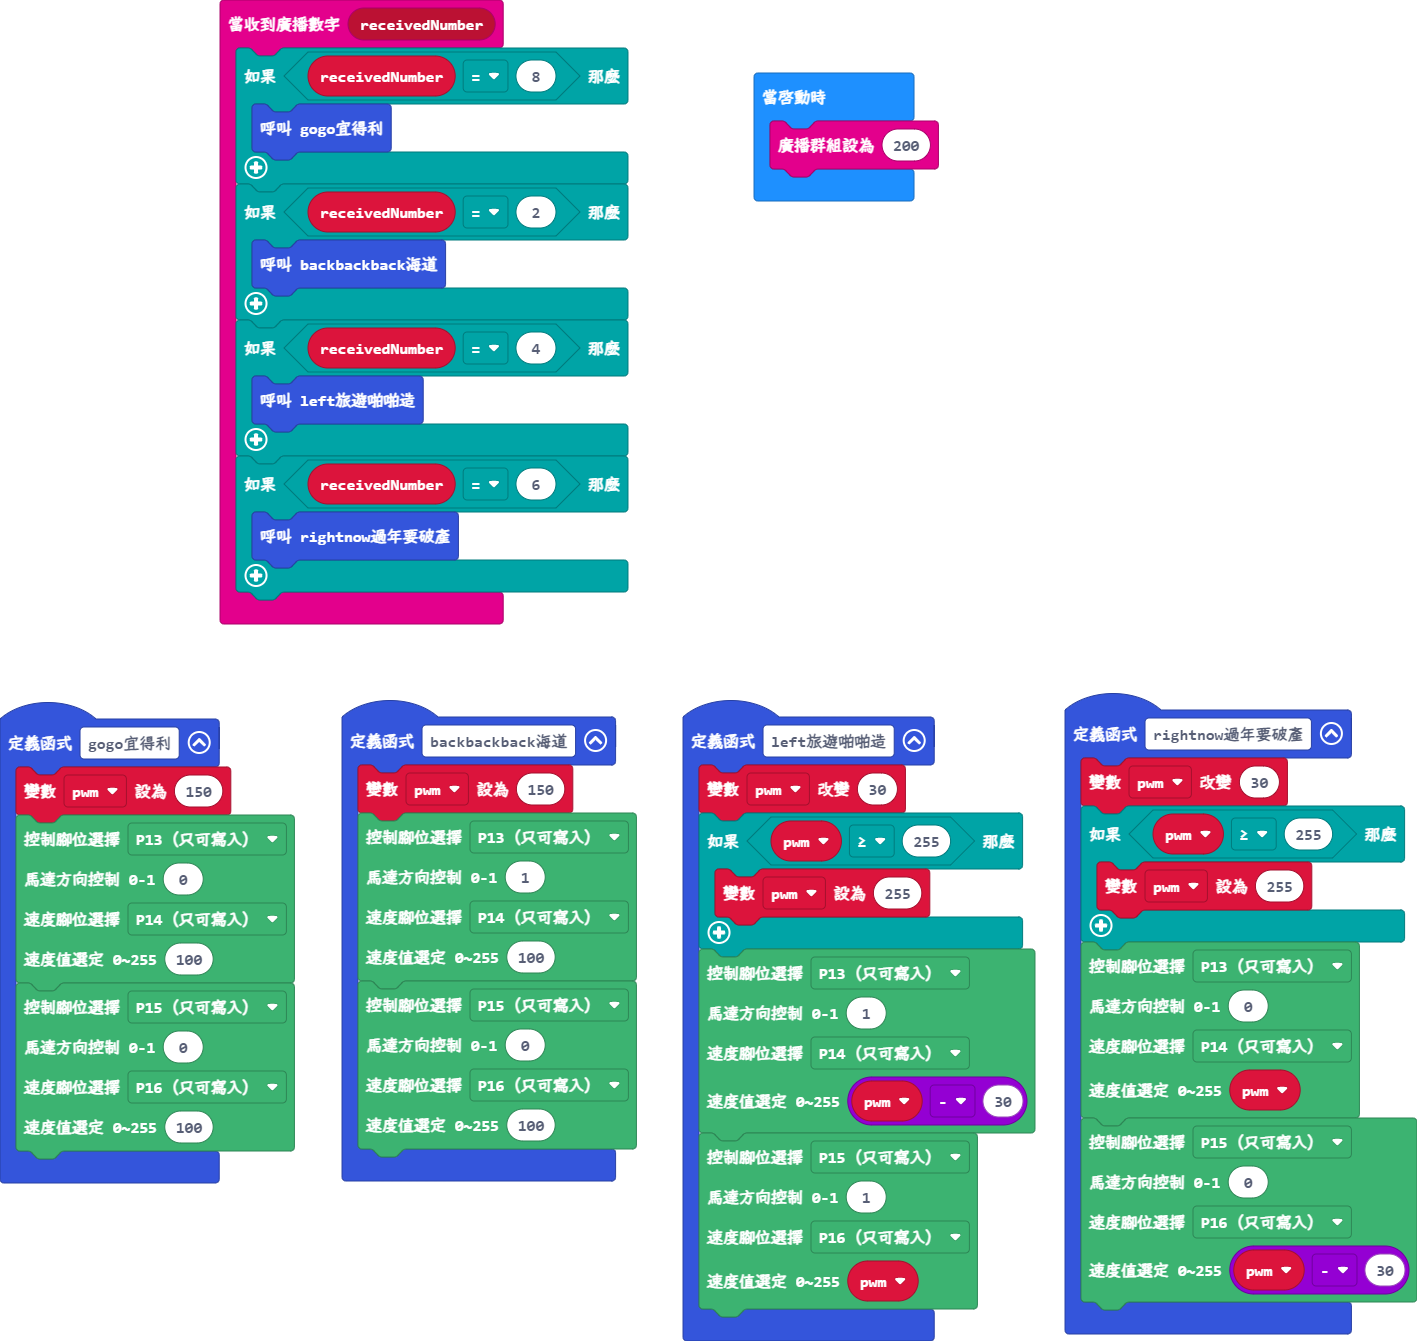
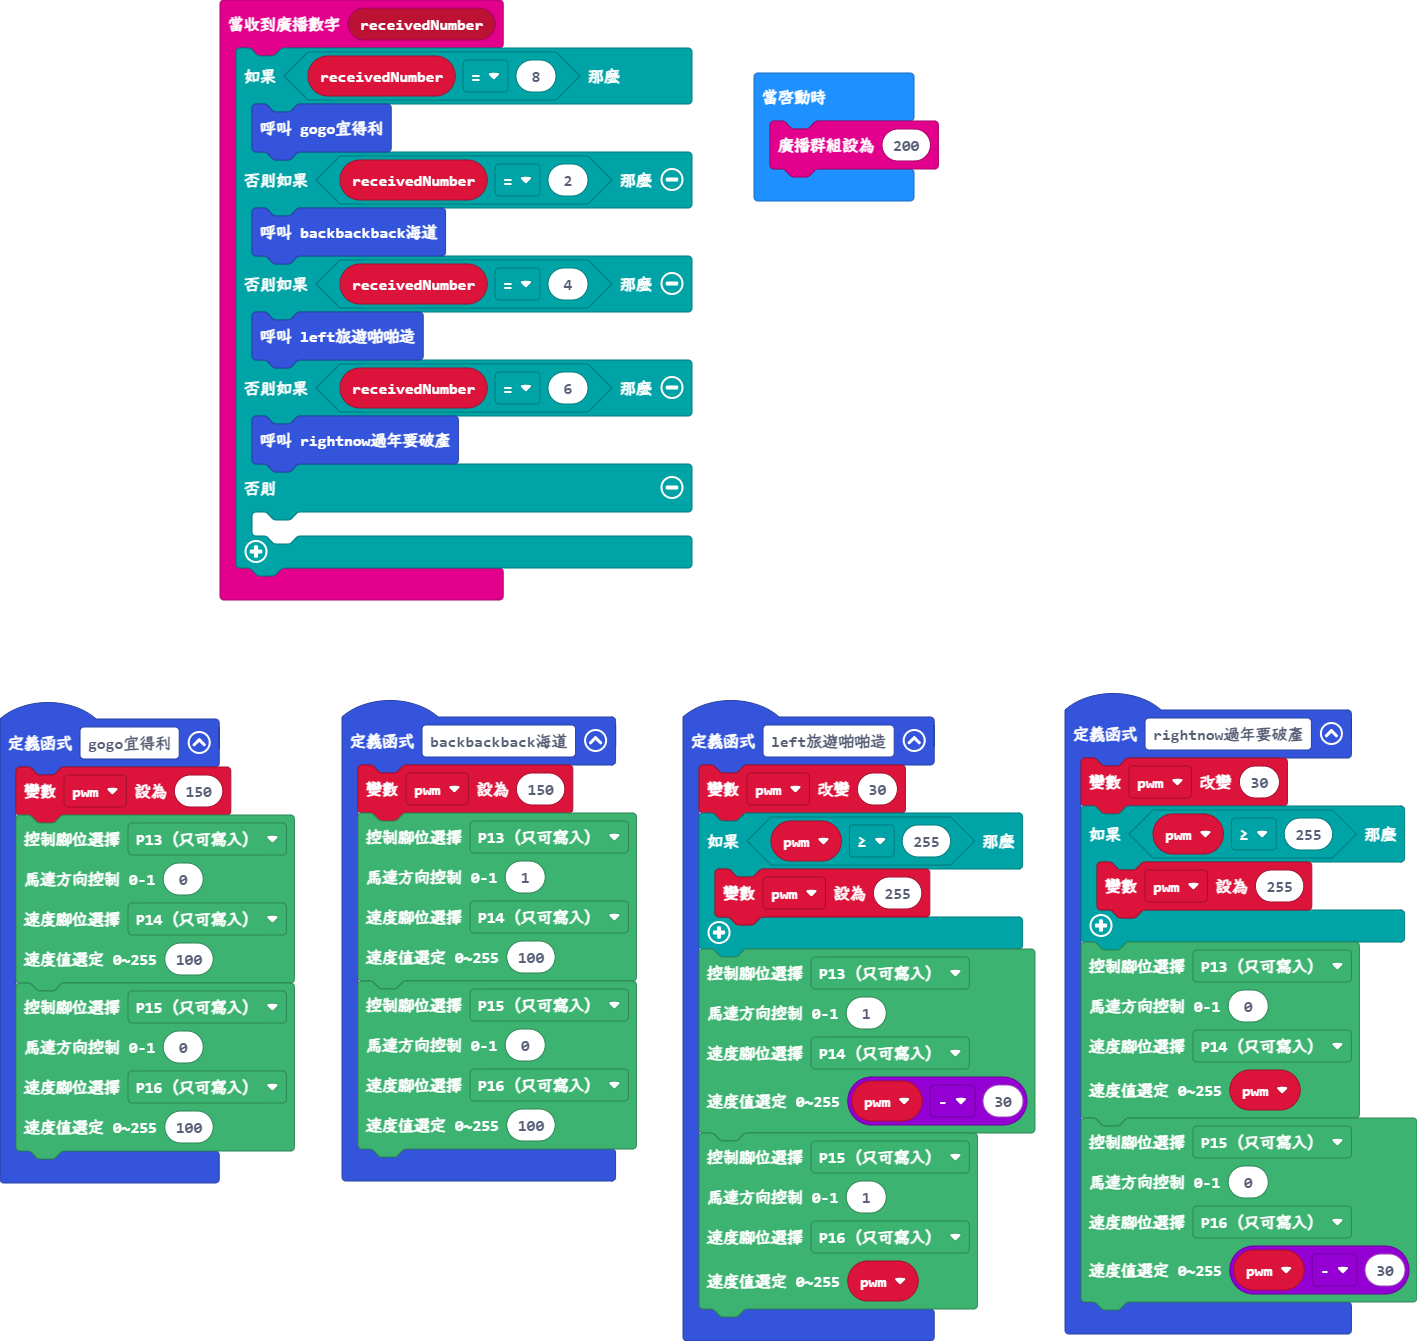
更新 main.blocks, main.ts

Changed region(s): [[0.1553, 0.0306, 0.4968, 0.4892]]

diff --git a/main.ts b/main.ts
@@ -16,15 +16,14 @@ function backbackback海道 () {
 radio.onReceivedNumber(function (receivedNumber) {
     if (receivedNumber == 8) {
         gogo宜得利()
-    }
-    if (receivedNumber == 2) {
+    } else if (receivedNumber == 2) {
         backbackback海道()
-    }
-    if (receivedNumber == 4) {
+    } else if (receivedNumber == 4) {
         left旅遊啪啪造()
-    }
-    if (receivedNumber == 6) {
+    } else if (receivedNumber == 6) {
         rightnow過年要破產()
+    } else {
+    	
     }
 })
 function left旅遊啪啪造 () {
